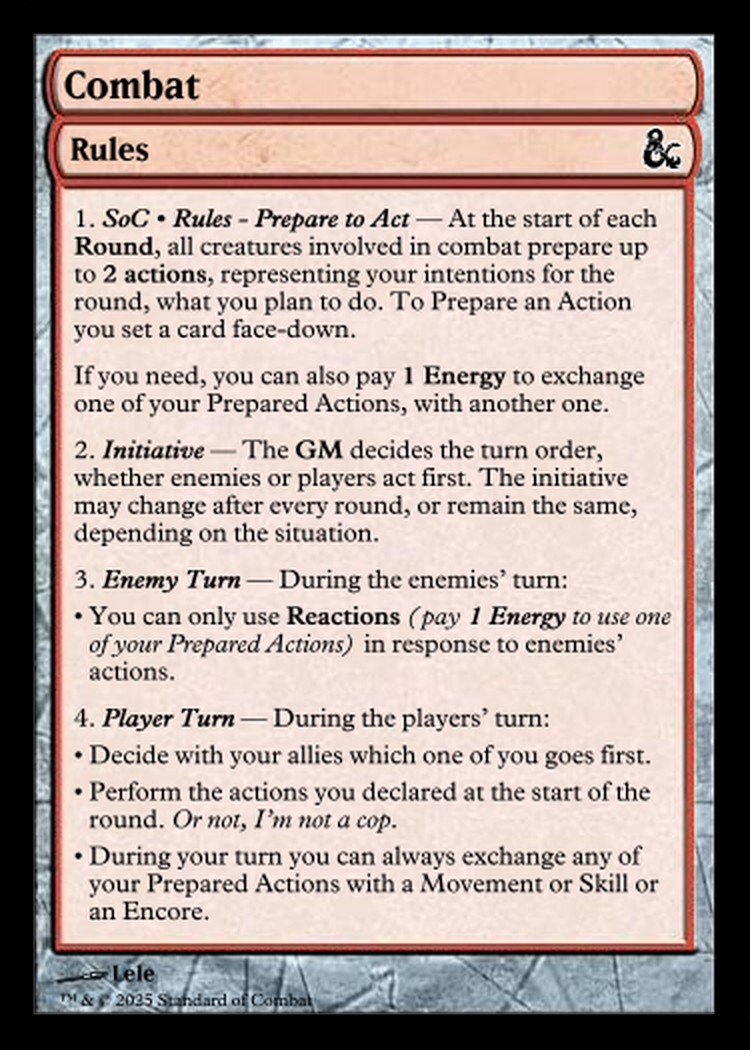
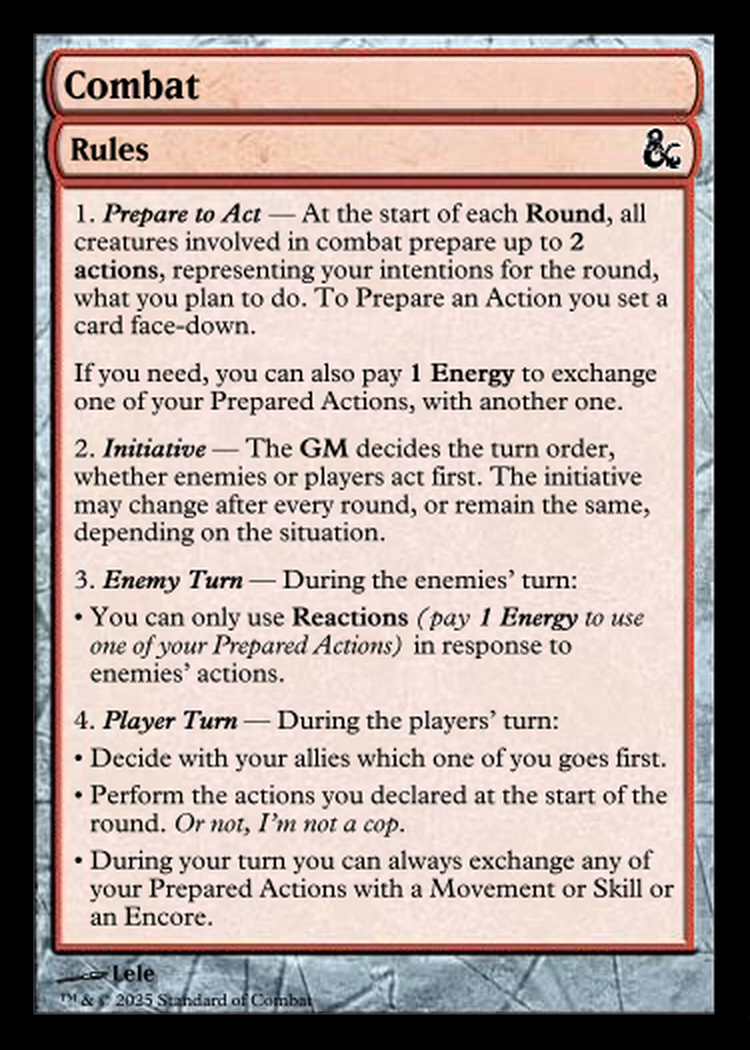
Quartz sync: Aug 3, 2025, 11:40 AM

Changed region(s): [[0.092, 0.1829, 0.8893, 0.8838]]

diff --git a/content/Notes & Images/SoC • Rules - Combat.md b/content/Notes & Images/SoC • Rules - Combat.md
@@ -4,7 +4,7 @@ aliases:
 ---
 %%
 - ***Type***: Rules
-- ***Description***:<br>1. ***[[SoC • Rules - Prepare to Act]]*** — At the start of each **Round**, all creatures involved in combat prepare up to **2 actions**, representing your intentions for the round, what you plan to do. To [[SoC • Rules - Prepare to Act|Prepare an Action]] you set a card face-down.<br>If you need, you can also pay **1 [[SoC • Rules Chapter - ENERGY|Energy]]** to exchange one of your [[SoC • Rules - Prepare to Act|Prepared Actions]], with another one.<br>2. ***Initiative*** — The **GM** decides the turn order, whether enemies or players act first. The initiative may change after every round, or remain the same, depending on the situation.<br>3. ***Enemy Turn*** — During the enemies’ turn:<br>• You can only use **[[Reactions]]** (_pay **1 [[SoC • Rules Chapter - ENERGY|Energy]]** to use one of your [[SoC • Rules - Prepare to Act|Prepared Actions]]_) in response to enemies' actions.<br>4. ***Player Turn*** — During the players’ turn:<br>• Decide with your allies which one of you goes first.<br>• Perform the actions you declared at the start of the round. _Or not, I'm not a cop_.<br>• During your turn you can always exchange any of your [[SoC • Rules - Prepare to Act|Prepared Actions]] with a [[SoC • Generic Action - Movement or Skill|Movement or Skill]] or an [[SoC • Generic Action - Encore|Encore]].
+- ***Description***:<br>1. ***[[SoC • Rules - Prepare to Act|Prepare to Act]]*** — At the start of each **Round**, all creatures involved in combat prepare up to **2 actions**, representing your intentions for the round, what you plan to do. To [[SoC • Rules - Prepare to Act|Prepare an Action]] you set a card face-down.<br>If you need, you can also pay **1 [[SoC • Rules Chapter - ENERGY|Energy]]** to exchange one of your [[SoC • Rules - Prepare to Act|Prepared Actions]], with another one.<br>2. ***Initiative*** — The **GM** decides the turn order, whether enemies or players act first. The initiative may change after every round, or remain the same, depending on the situation.<br>3. ***Enemy Turn*** — During the enemies’ turn:<br>• You can only use **[[Reactions]]** (_pay **1 [[SoC • Rules Chapter - ENERGY|Energy]]** to use one of your [[SoC • Rules - Prepare to Act|Prepared Actions]]_) in response to enemies' actions.<br>4. ***Player Turn*** — During the players’ turn:<br>• Decide with your allies which one of you goes first.<br>• Perform the actions you declared at the start of the round. _Or not, I'm not a cop_.<br>• During your turn you can always exchange any of your [[SoC • Rules - Prepare to Act|Prepared Actions]] with a [[SoC • Generic Action - Movement or Skill|Movement or Skill]] or an [[SoC • Generic Action - Encore|Encore]].
 - ***Flavor***: 
 - ***Rarity***: common
 - ***Color***: artifact, red

diff --git a/content/Notes & Images/SoC • Rules - Start of a New Campaign.md b/content/Notes & Images/SoC • Rules - Start of a New Campaign.md
@@ -4,7 +4,7 @@ aliases:
 ---
 %%
 - ***Type***: Rules
-- ***Description***:<br>When a new **Campaign** starts all the Characters get some **Hero Points** (usually **20**) to create and customize their characters.<br>Each Character and Companion gets **5 [[SoC • Rules Chapter - HEALTH|Health Cards]]** and **3 [[SoC • Rules Chapter - ENERGY|Energy Cards]]**, for free, as well as some **Generic Action Cards**, a **[[SoC • Card - Character Details|Character Details]] Card**, **Rations**, and **1 [[SoC • Rules Chapter - RUNES|Rune]]** of your choice.<br><br>How many **Points**, **Health** and **Energy**, ..., each Character gets at the start, is ultimately decided (as most things are) by your **GM**.
+- ***Description***:<br>A When a new **Campaign** starts all the Characters get some **Hero Points** (usually **20**) to create and customize their characters.<br>Each Character and Companion gets **5 [[SoC • Rules Chapter - HEALTH|Health Cards]]** and **3 [[SoC • Rules Chapter - ENERGY|Energy Cards]]**, for free, as well as some **Generic Action Cards**, a **[[SoC • Card - Character Details|Character Details]] Card**, **Rations**, and **1 [[SoC • Rules Chapter - RUNES|Rune]]** of your choice.<br><br>How many **Points**, **Health** and **Energy**, ..., each Character gets at the start, is ultimately decided (as most things are) by your **GM**.
 - ***Flavor***: 
 - ***Rarity***: common
 - ***Color***: artifact, multicolor 

diff --git a/content/Notes & Images/SoC • Rule - Lasting Spells.md b/content/Notes & Images/SoC • Rule - Lasting Spells.md
@@ -5,7 +5,7 @@ aliases:
 ---
 %%
 - ***Type***: Rules
-- ***Description***:<br>Whenever you cast a [[SoC • Rules Chapter - CUSTOM SPELLS|Spell]] that costs **1 pt or less**, you may choose to spend **1 additional [[SoC • Rules Chapter - NEW CAMPAIGN|Hero Point]]**, along with the usual [[SoC • Rules Chapter - ENERGY|Energy]] cost.<br>If you do, any effect of the spell that would normally last **1 hour** instead becomes **permanent**.
+- ***Description***:<br>Whenever you cast a [[SoC • Rules Chapter - CUSTOM SPELLS|Spell]] that costs **1 [[SoC • Rules Chapter - NEW CAMPAIGN|Hero Point]] or less**, you may choose to spend **1 additional [[SoC • Rules Chapter - NEW CAMPAIGN|Hero Point]]**, along with the usual [[SoC • Rules Chapter - ENERGY|Energy]] cost.<br>If you do, any effect of the spell that would normally last **1 hour** instead becomes **permanent**.
 - **_Flavor_**: Note — A permanent spell can still be [[SoC • Rune - Dispel|Dispelled]], or end due to other effects or conditions, just not due to the passage of time.
 - ***Rarity***: common
 - ***Color***: artifact 

diff --git a/content/Notes & Images/SoC • Rules - Remember to Eat Sweety.md b/content/Notes & Images/SoC • Rules - Remember to Eat Sweety.md
@@ -10,8 +10,4 @@ aliases:
 - ***Color***: artifact, white 
 %%
 
-### Card
-
-![[SoC • Card - Remember to Eat Sweety.png|325]]
-
 ![[SoC • Card - Remember to Eat Sweety.png|325]]
